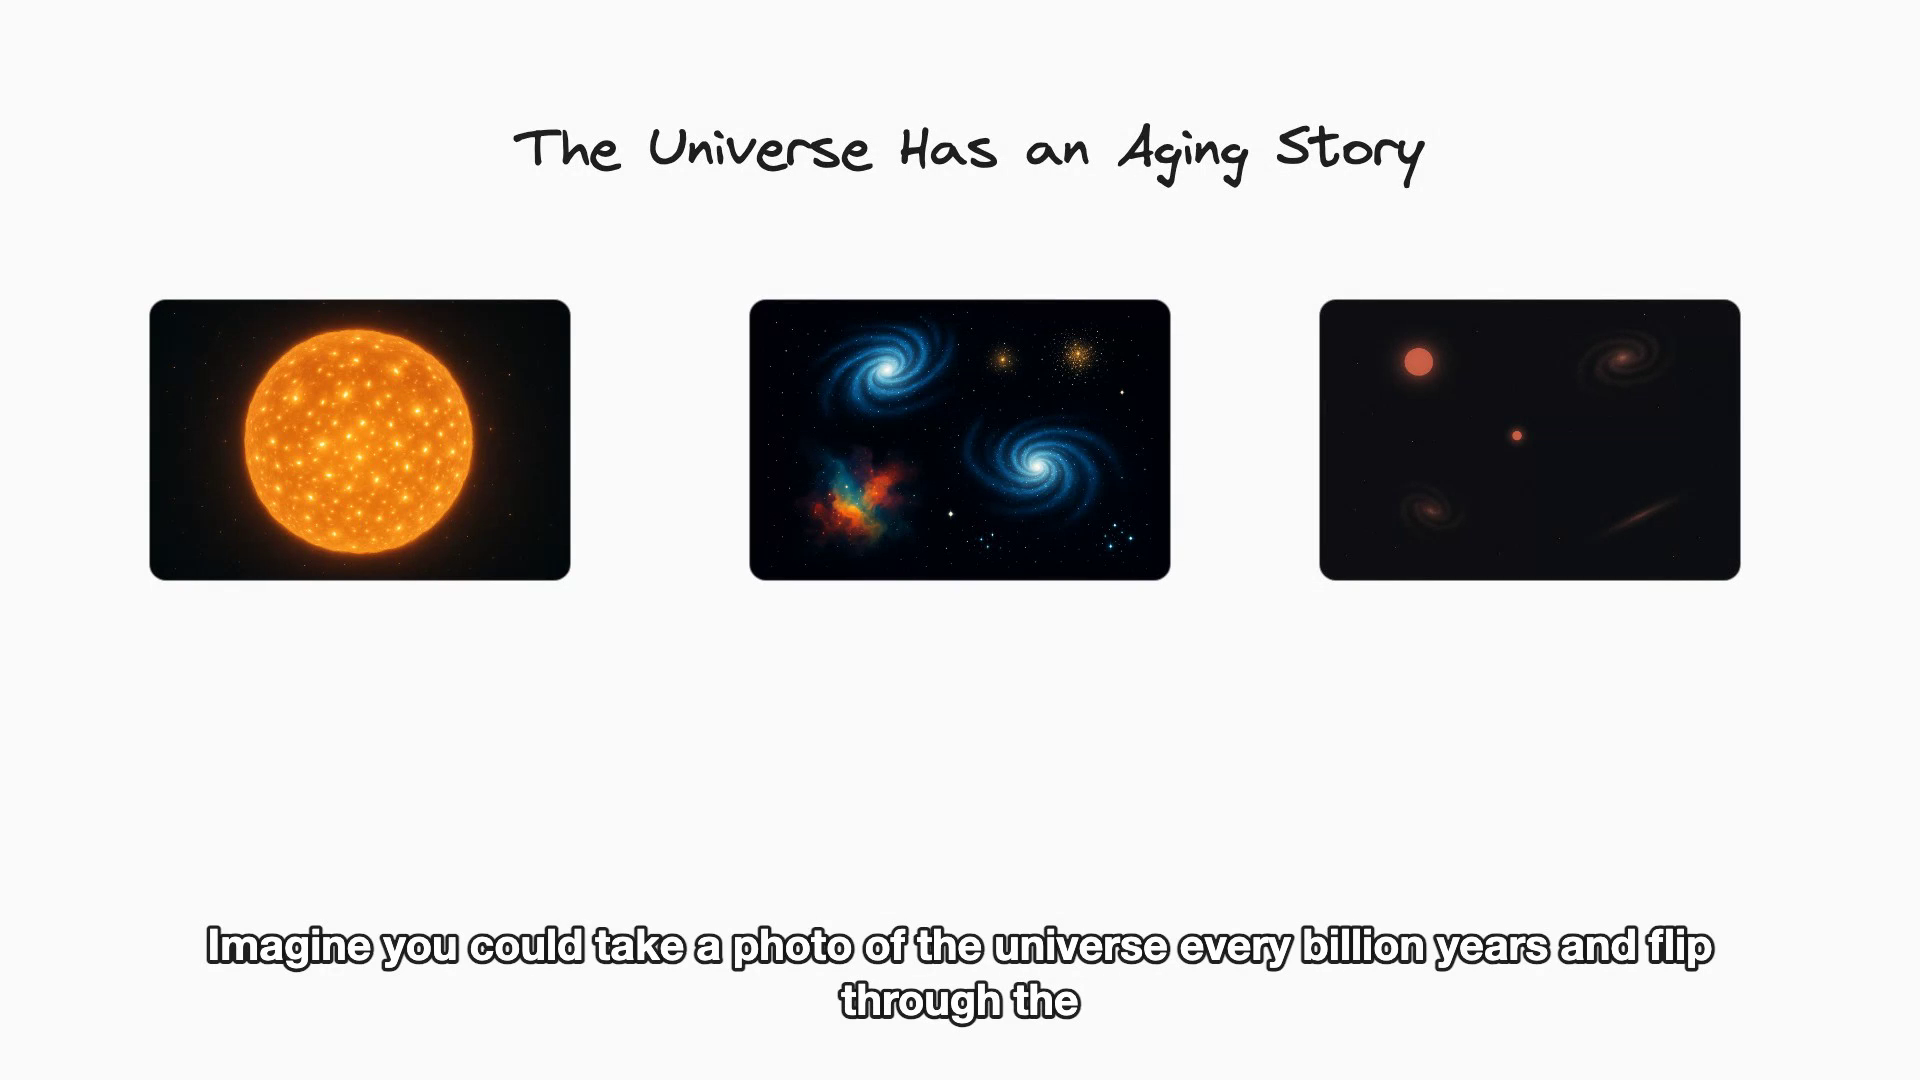
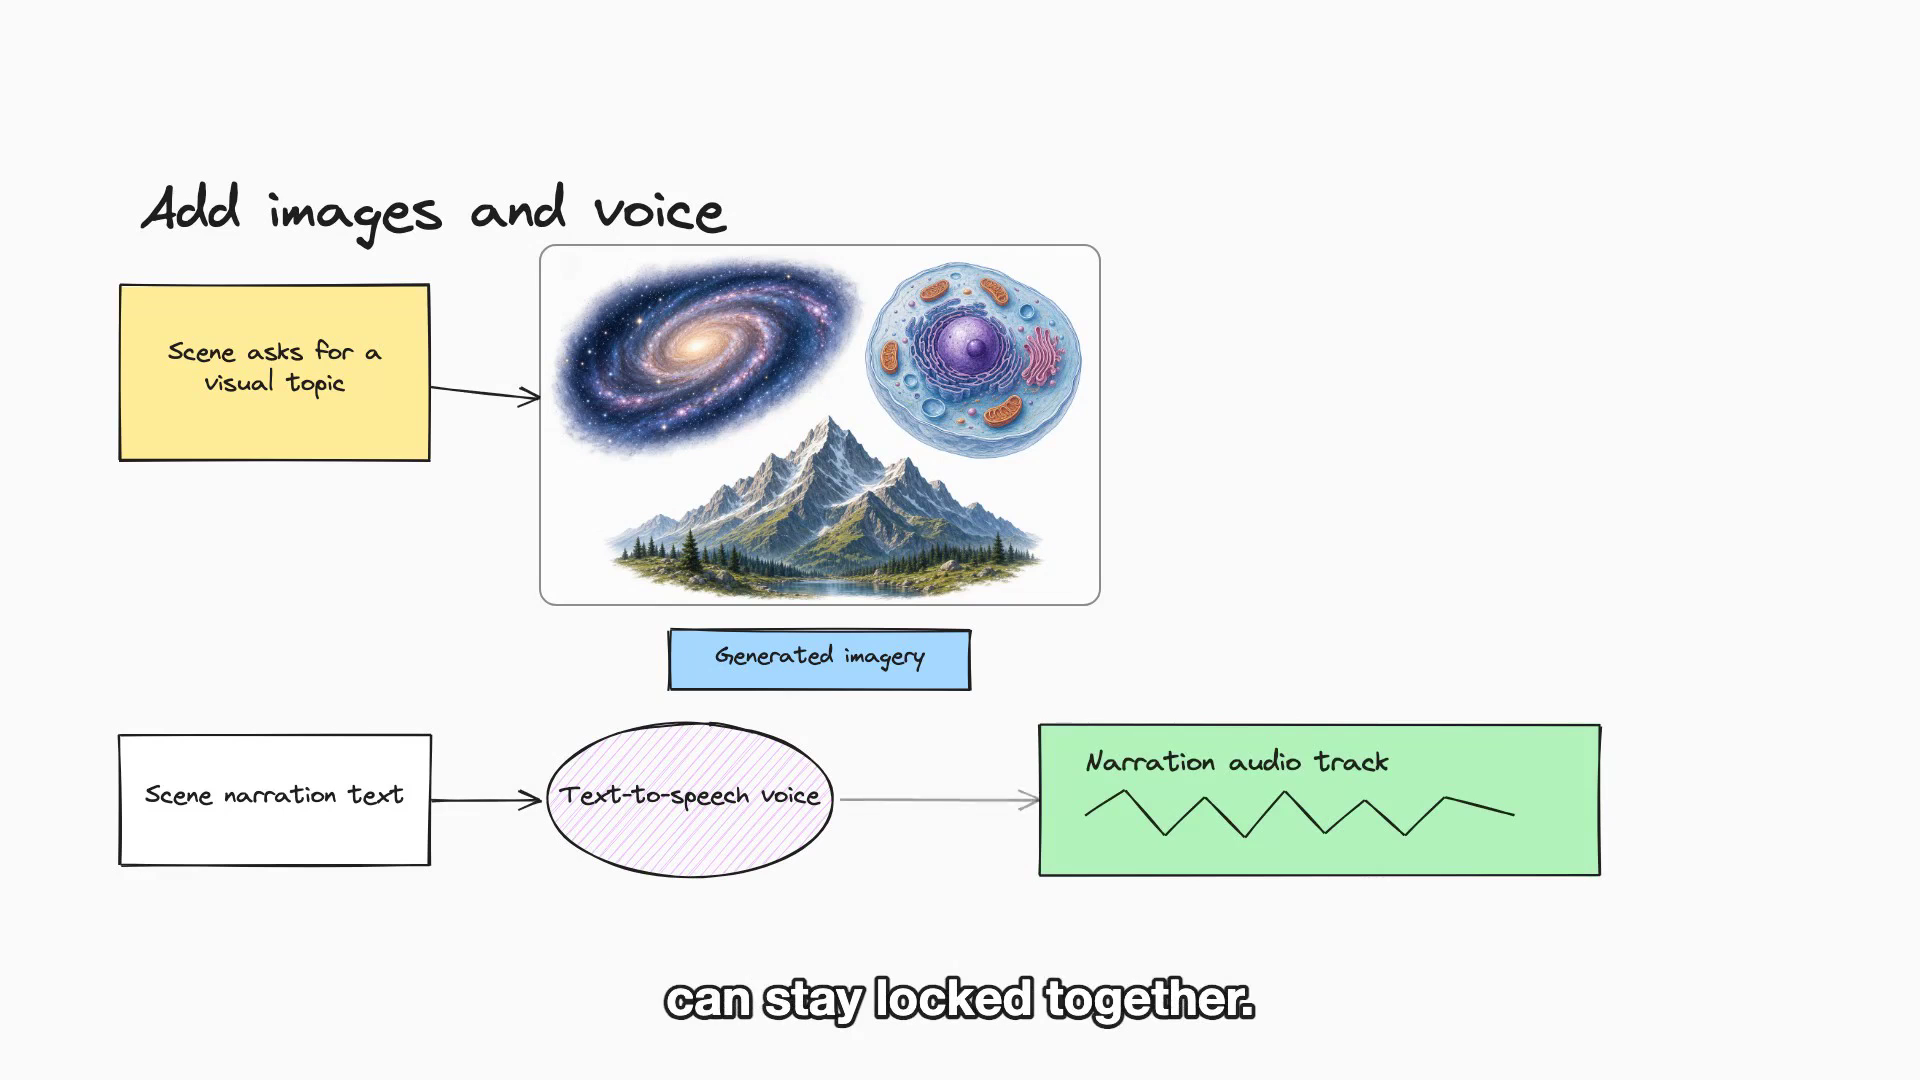
docs: new self-describing demo — refresh hero thumbnail + release video
- docs/demo.png: best frame from the new demo (the "add images and voice"
  scene — real generated imagery + narration flow)
- README hero now points at the new demo (generated by chalkboard, from one
  prompt describing how chalkboard works); video shipped as the v0.1.0 release asset

diff --git a/README.md b/README.md
@@ -18,12 +18,12 @@ cost per video can be zero. MIT-licensed: yours to fork, embed, and bill for.
 
 <p align="center">
   <a href="https://github.com/Atharva-Kanherkar/chalkboard/releases/download/v0.1.0/chalkboard-demo.mp4">
-    <img src="docs/demo.png" alt="chalkboard demo — how the universe is aging" width="780">
+    <img src="docs/demo.png" alt="chalkboard demo — how chalkboard works, generated by chalkboard" width="780">
   </a>
 </p>
 
 <p align="center">
-  <em>▶ <a href="https://github.com/Atharva-Kanherkar/chalkboard/releases/download/v0.1.0/chalkboard-demo.mp4">Watch the demo</a> — “how the universe is aging”, generated end to end from that single prompt.</em>
+  <em>▶ <a href="https://github.com/Atharva-Kanherkar/chalkboard/releases/download/v0.1.0/chalkboard-demo.mp4">Watch the demo</a> — this whole video was generated by chalkboard, from a single prompt describing how chalkboard works.</em>
 </p>
 
 ## Features
